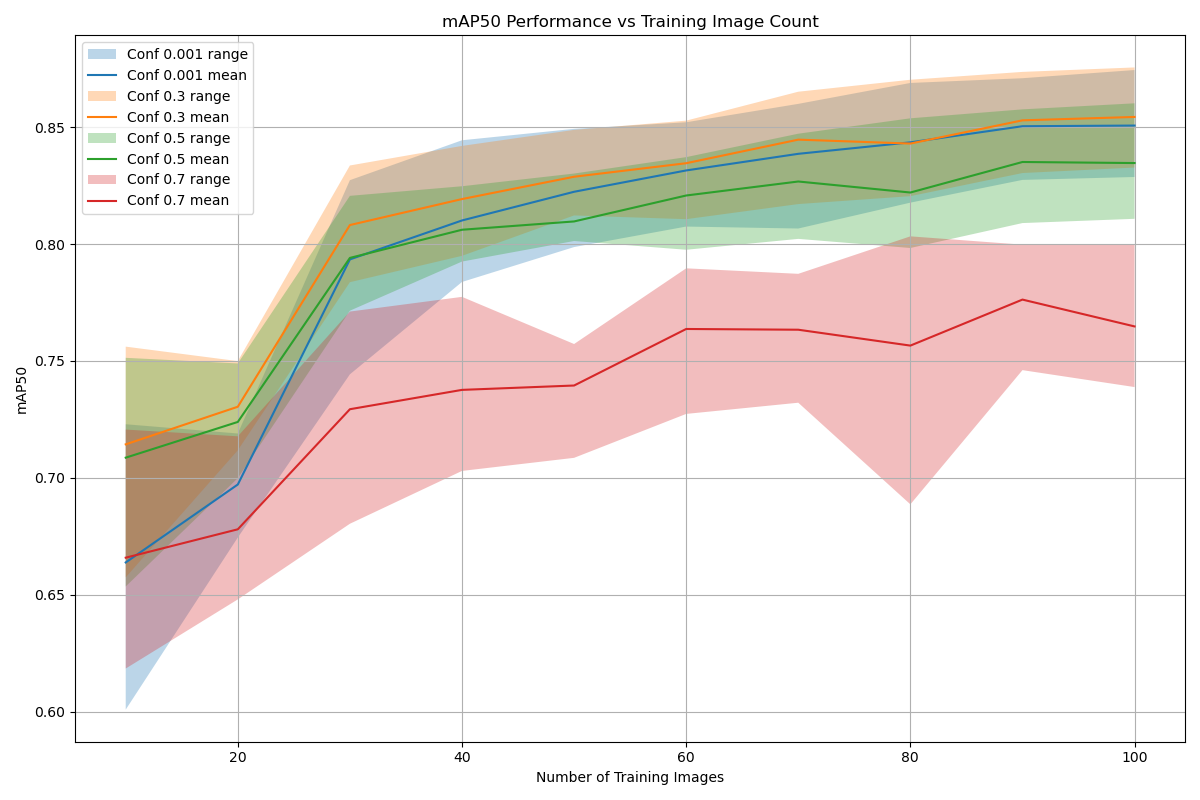
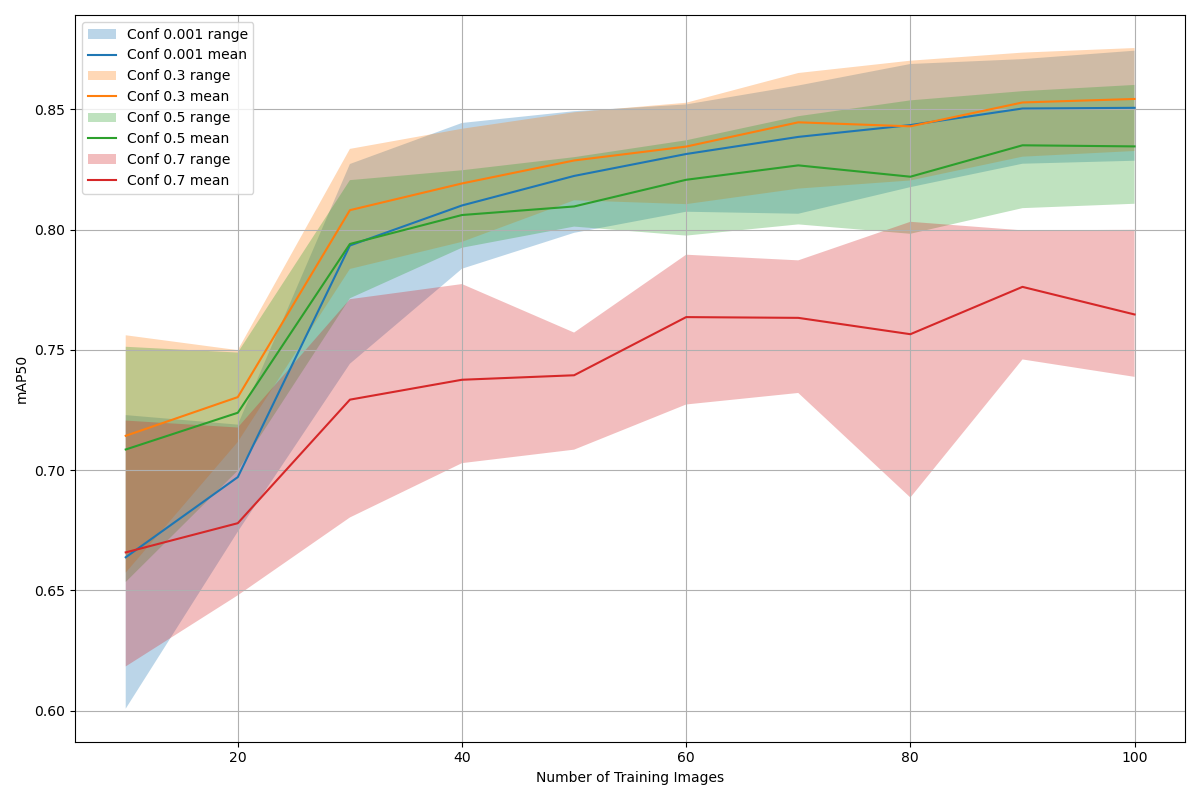
uplaod images without titles. looks better.

diff --git a/experiments/increasing_images/scripts/graph_mAP50.py b/experiments/increasing_images/scripts/graph_mAP50.py
@@ -56,7 +56,7 @@ for conf_level in sorted(full_df['conf'].unique()):
 # === FINAL SETTINGS ===
 plt.xlabel('Number of Training Images')
 plt.ylabel('mAP50')
-plt.title('mAP50 Performance vs Training Image Count')
+# plt.title('mAP50 Performance vs Training Image Count')
 
 if SET_LIMITS:
     plt.xlim(0, 100)

diff --git a/experiments/increasing_images/scripts/graph_traintime.py b/experiments/increasing_images/scripts/graph_traintime.py
@@ -69,7 +69,7 @@ else:
     ylabel = 'Total Training Time (seconds)'
 
 plt.ylabel(ylabel)
-plt.title('Training Time vs Number of Training Images')
+# plt.title('Training Time vs Number of Training Images')
 
 if SET_LIMITS:
     plt.xlim(0, 100)
